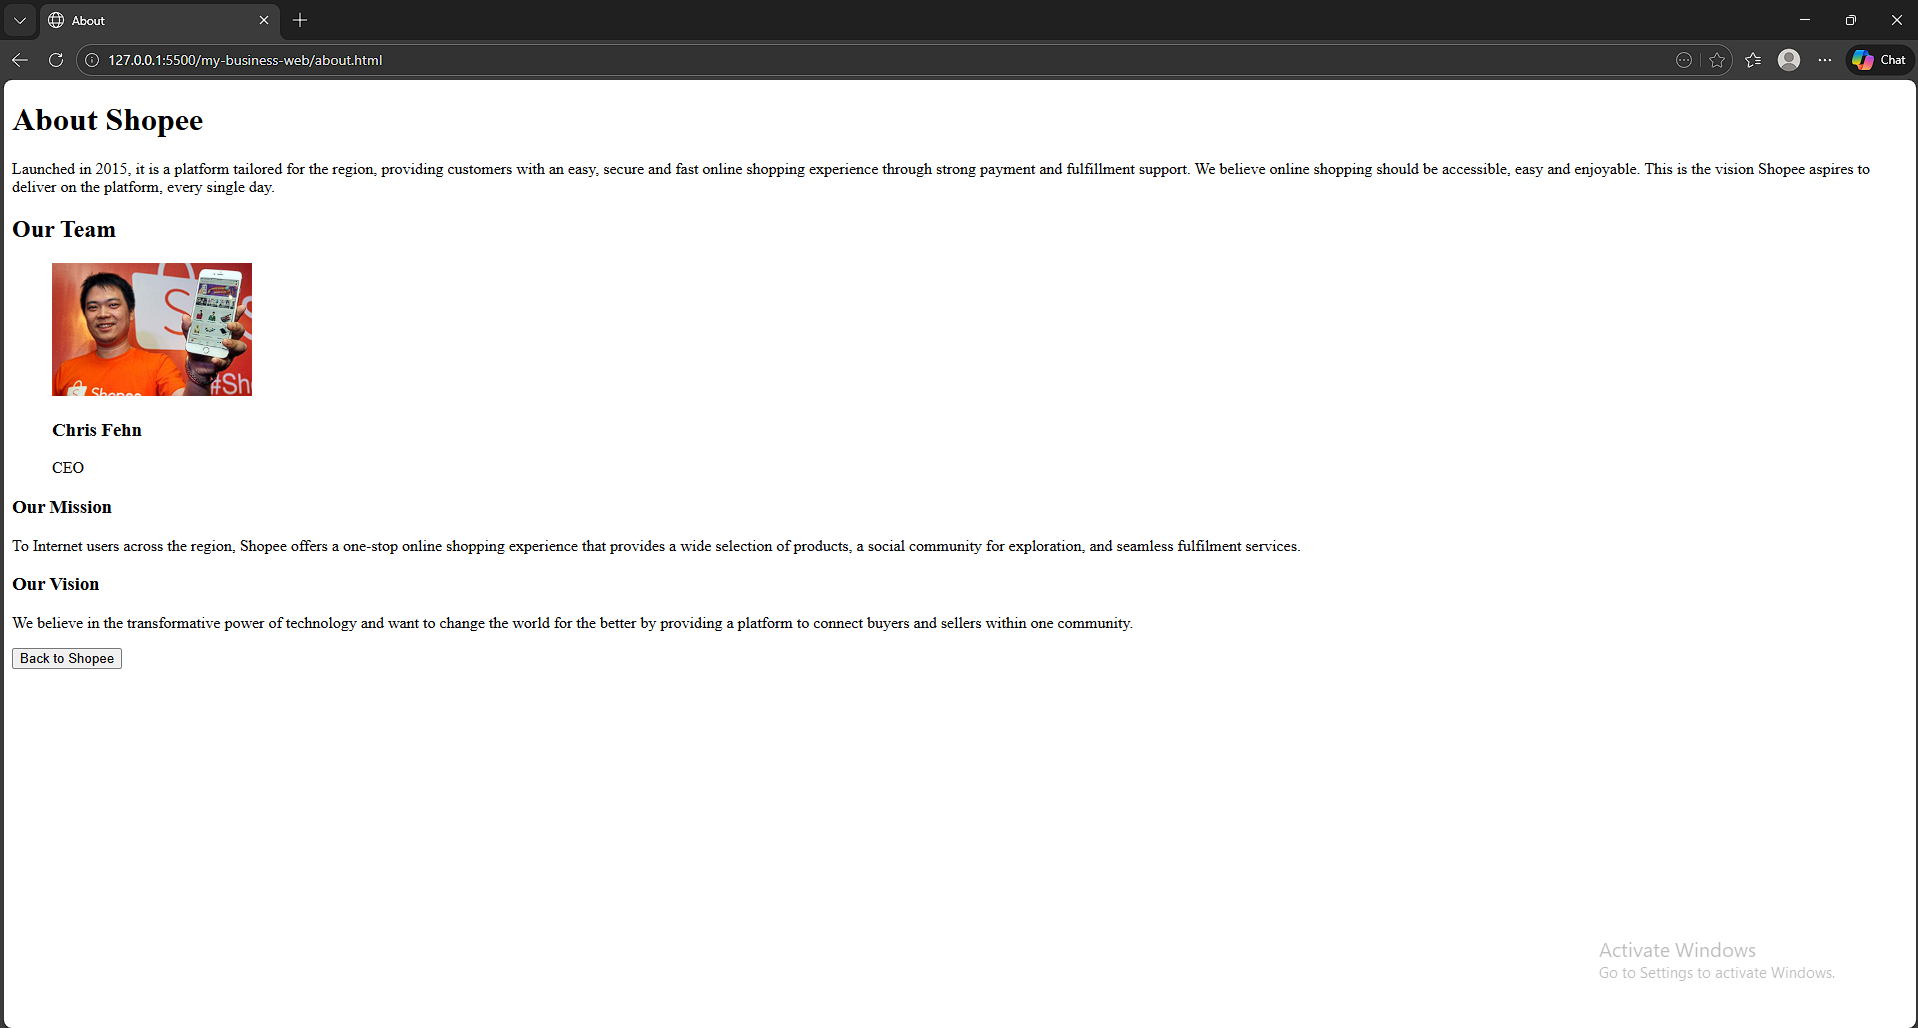
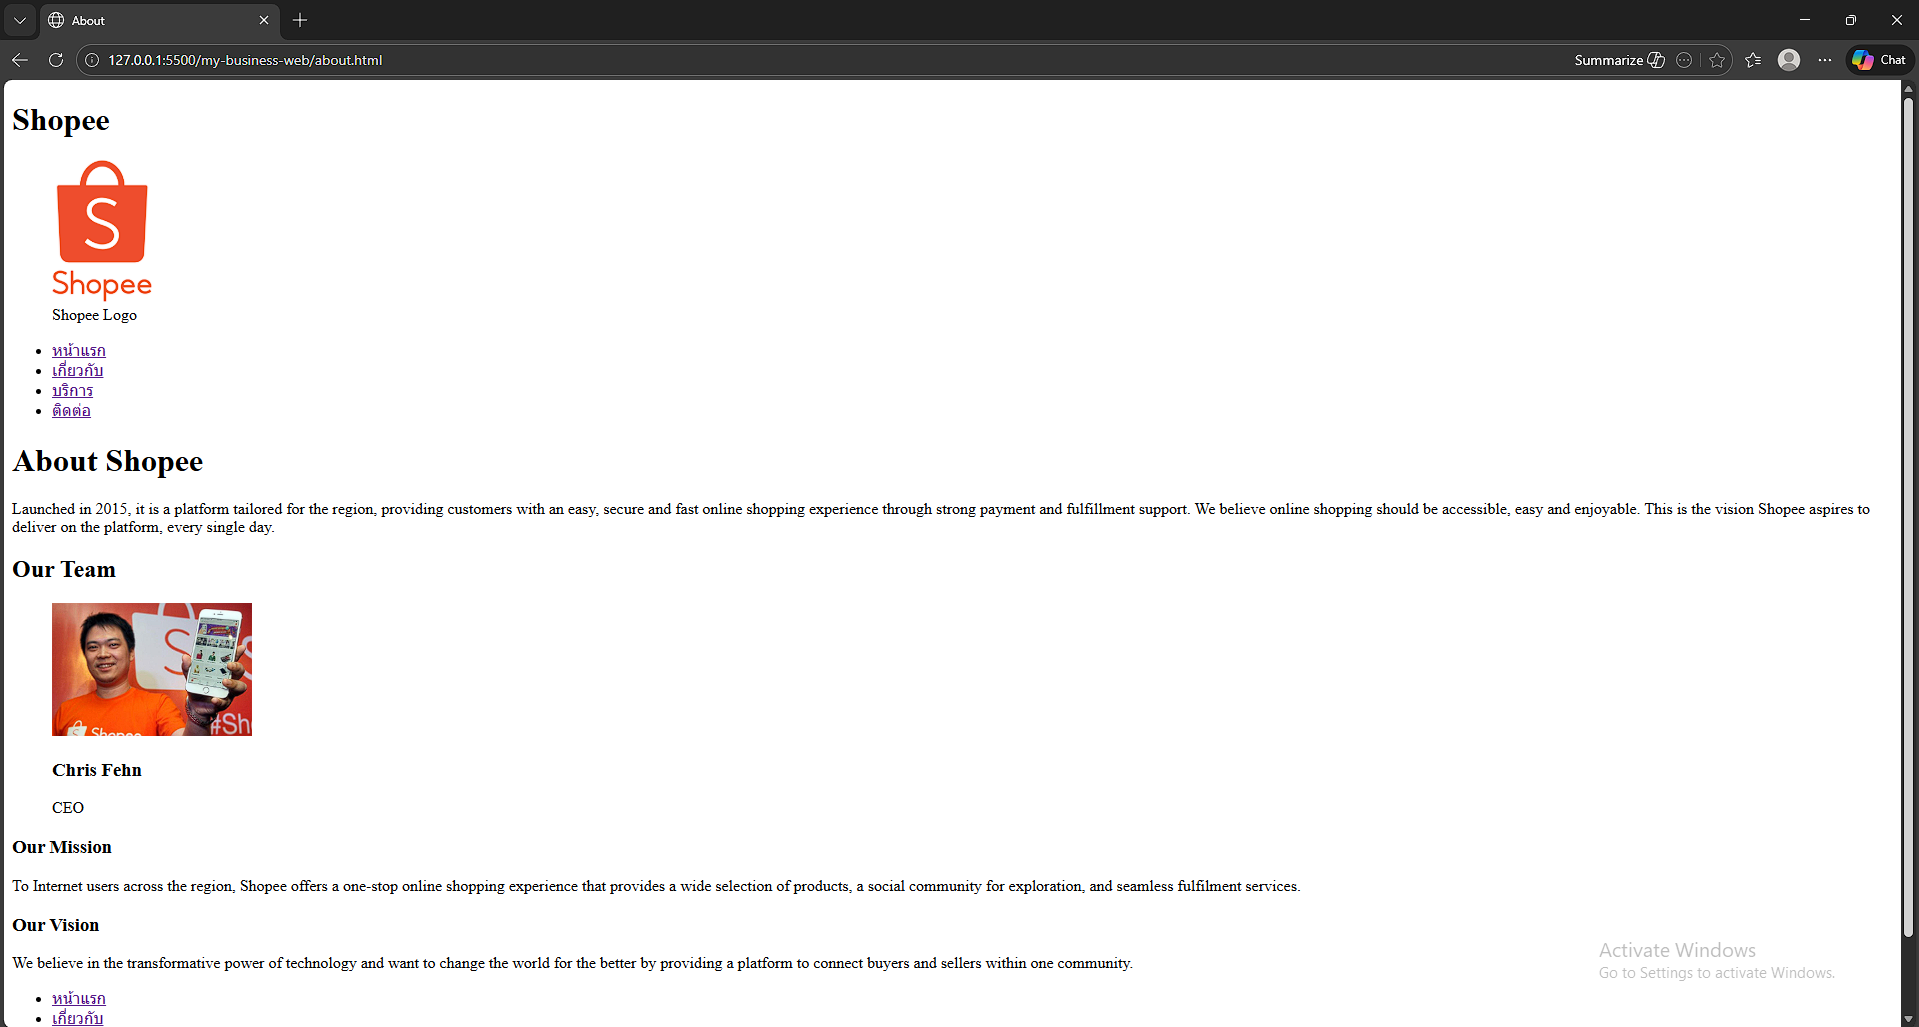
AllDone2

diff --git a/contact.html b/contact.html
@@ -8,30 +8,73 @@
 </head>
 
 <body>
+    <!--Header-->
+    <header><h1>Shopee</h1></header>
+    <figure>
+      <img src="images/Shopee_logo.svg.webp" alt="Shopee Logo" width="100" />
+      <figcaption>Shopee Logo</figcaption>
+      <!--Navigation menu-->
+    </figure>
+    <ul>
+      <li><a href="index.html">หน้าแรก</a></li>
+      <li><a href="about.html">เกี่ยวกับ</a></li>
+      <li><a href="services.html">บริการ</a></li>
+      <li><a href="contact.html">ติดต่อ</a></li>
+    </ul>
     <!--Contact Form-->
-    <header><h1>Contact Form</h1></header>
+    <header><h3>Contact Form</h3></header>
     <form class="Contact-Form" action="" method="post"></form>
-    <table border="1" class="Contact-Table">
-            <tr>
-                <td><label for="Name">ชื่อ</label></td>
-                <td><input type="text" id="Name" name="Name" required></td>
-            </tr>
-            <tr>
-                <td><label for="Email">อีเมล</label></td>
-                <td><input type="text" id="Email" name="Email" required></td>
-            </tr>
-            <tr>
-                <td><label for="Message">ข้อความ</label></td>
-                <td><textarea name="Message" id="Message"></textarea required></td>
-    </tr>
-    <tr>
-        <td><button type="submit">ส่งข้อความ</button></td>
-    </tr>
-</form>
-<!--Contact in other Platform-->
-</table>
-    <a href="https://www.facebook.com/shopeeth/"><img src="images/Facebook_Logo_(2019).png.webp" alt="Facebook Logo" width="50px"></a>
+    <fieldset style="width: 500px; height: 270px;"> 
+        <legend>ข้อมูลส่วนตัว</legend>
+        <label for="fname">ชื่อจริง:</label>
+        <input type="text" id="fname" name="firstname" required />
+        <label for="lname">นามสกุล:</label>
+        <input type="text" id="lname" name="lastname" required /><br />
+        <label for="email">อีเมล:</label>
+        <input type="email" id="email" name="email" required />
+        <label for="born">วันเกิด:</label>
+        <input type="date" id="born_id" name="born" required />
+
+        <fieldset>
+          <legend>เพศ</legend>
+          <input type="radio" id="male" name="gender" />
+          <label for="male">ชาย</label>
+          <input type="radio" id="female" name="gender" />
+          <label for="female">หญิง</label>
+          <input type="radio" id="other" name="gender" />
+          <label for="other">อื่นๆ</label>
+        </fieldset>
+
+        <label for="country">ประเทศ:</label>
+        <select name="CT" id="country">
+          <option value="">--เลือกประเทศ--</option></select
+        ><br />
+
+        <label for="information">ข้อมูลเพิ่มเติม:</label><br />
+        <textarea
+          name="information"
+          id="info"
+          style="width: 400px; height: 80px"
+        ></textarea
+        ><br />
+
+        <input type="checkbox" id="accept" name="ยอมรับ" />
+        <label for="accept">ฉันยอมรับเงื่อนไขการใช้บริการ</label>
+      </fieldset>
+      <button type="submit">ส่งข้อมูล</button>
+      <button type="reset">ยกเลิก</button>
+    <p><h3>Google map</h3></p>
+        <img src="images/Google map.png" alt="Google map" width="500px">
+        <p>Address: Singha Complex, 1788 Phetchaburi Rd, Bangkapi, Huai Khwang, Bangkok 10310</p>
+        <!--Contact in other Platform-->
+    <a href="https://www.facebook.com/shopeeth/"><img src="images/Facebook_Logo_(2019).png.webp" alt="Facebook Logo" width="50px"></a >
     <figcaption>Contact Facebook</figcaption>
-    <p>Address: Singha Complex, 1788 Phetchaburi Rd, Bangkapi, Huai Khwang, Bangkok 10310</p>
+    <ul>
+      <li><a href="index.html">หน้าแรก</a></li>
+      <li><a href="about.html">เกี่ยวกับ</a></li>
+      <li><a href="services.html">บริการ</a></li>
+      <li><a href="contact.html">ติดต่อ</a></li>
+    </ul>
+    <footer>© 2025 Shopee. All Rights Reserved</footer>
 </body>
 </html>

diff --git a/about.html b/about.html
@@ -6,6 +6,19 @@
     <title>About</title>
   </head>
   <body>
+    <!--Header-->
+    <header><h1>Shopee</h1></header>
+    <figure>
+      <img src="images/Shopee_logo.svg.webp" alt="Shopee Logo" width="100" />
+      <figcaption>Shopee Logo</figcaption>
+      <!--Navigation menu-->
+    </figure>
+    <ul>
+      <li><a href="index.html">หน้าแรก</a></li>
+      <li><a href="about.html">เกี่ยวกับ</a></li>
+      <li><a href="services.html">บริการ</a></li>
+      <li><a href="contact.html">ติดต่อ</a></li>
+    </ul>
     <!--About Shopee-->
     <header><h1>About Shopee</h1></header>
     <p>
@@ -42,6 +55,12 @@
       sellers within one community.
     </p>
     <!--Back to Shopee-->
-    <a href="index.html"><button type="submit">Back to Shopee</button></a>
+    <ul>
+      <li><a href="index.html">หน้าแรก</a></li>
+      <li><a href="about.html">เกี่ยวกับ</a></li>
+      <li><a href="services.html">บริการ</a></li>
+      <li><a href="contact.html">ติดต่อ</a></li>
+    </ul>
+    <footer>© 2025 Shopee. All Rights Reserved</footer>
   </body>
 </html>

diff --git a/services.html b/services.html
@@ -6,6 +6,19 @@
     <title>Services</title>
   </head>
   <body>
+    <!--Header-->
+    <header><h1>Shopee</h1></header>
+    <figure>
+      <img src="images/Shopee_logo.svg.webp" alt="Shopee Logo" width="100" />
+      <figcaption>Shopee Logo</figcaption>
+      <!--Navigation menu-->
+    </figure>
+    <ul>
+      <li><a href="index.html">หน้าแรก</a></li>
+      <li><a href="about.html">เกี่ยวกับ</a></li>
+      <li><a href="services.html">บริการ</a></li>
+      <li><a href="contact.html">ติดต่อ</a></li>
+    </ul>
     <!--Service System-->
     <header><h1>บริการ</h1></header>
     <section class="ค้นหาสินค้า">
@@ -67,5 +80,6 @@
         </td>
       </tr>
     </table>
+    <footer>© 2025 Shopee. All Rights Reserved</footer>
   </body>
 </html>

diff --git a/index.html b/index.html
@@ -54,6 +54,6 @@
       <label for="พร้อมส่วนลด">พร้อมส่วนลด</label>
     </fieldset>
     <!--Footer-->
-    <footer>Thanks you for shopping at Shopee</footer>
+    <footer>© 2025 Shopee. All Rights Reserved</footer>
   </body>
 </html>

diff --git a/README.md b/README.md
@@ -22,6 +22,7 @@ about.html
 ![about.html](images/about.html%20shot.png)
 contact.html
 ![contact.html](images/contact.html%20shot.png)
+![contact.html](images/contact.html%20shot2.png)
 services.html
 ![services.html](images/services.html%20shot.png)
 
